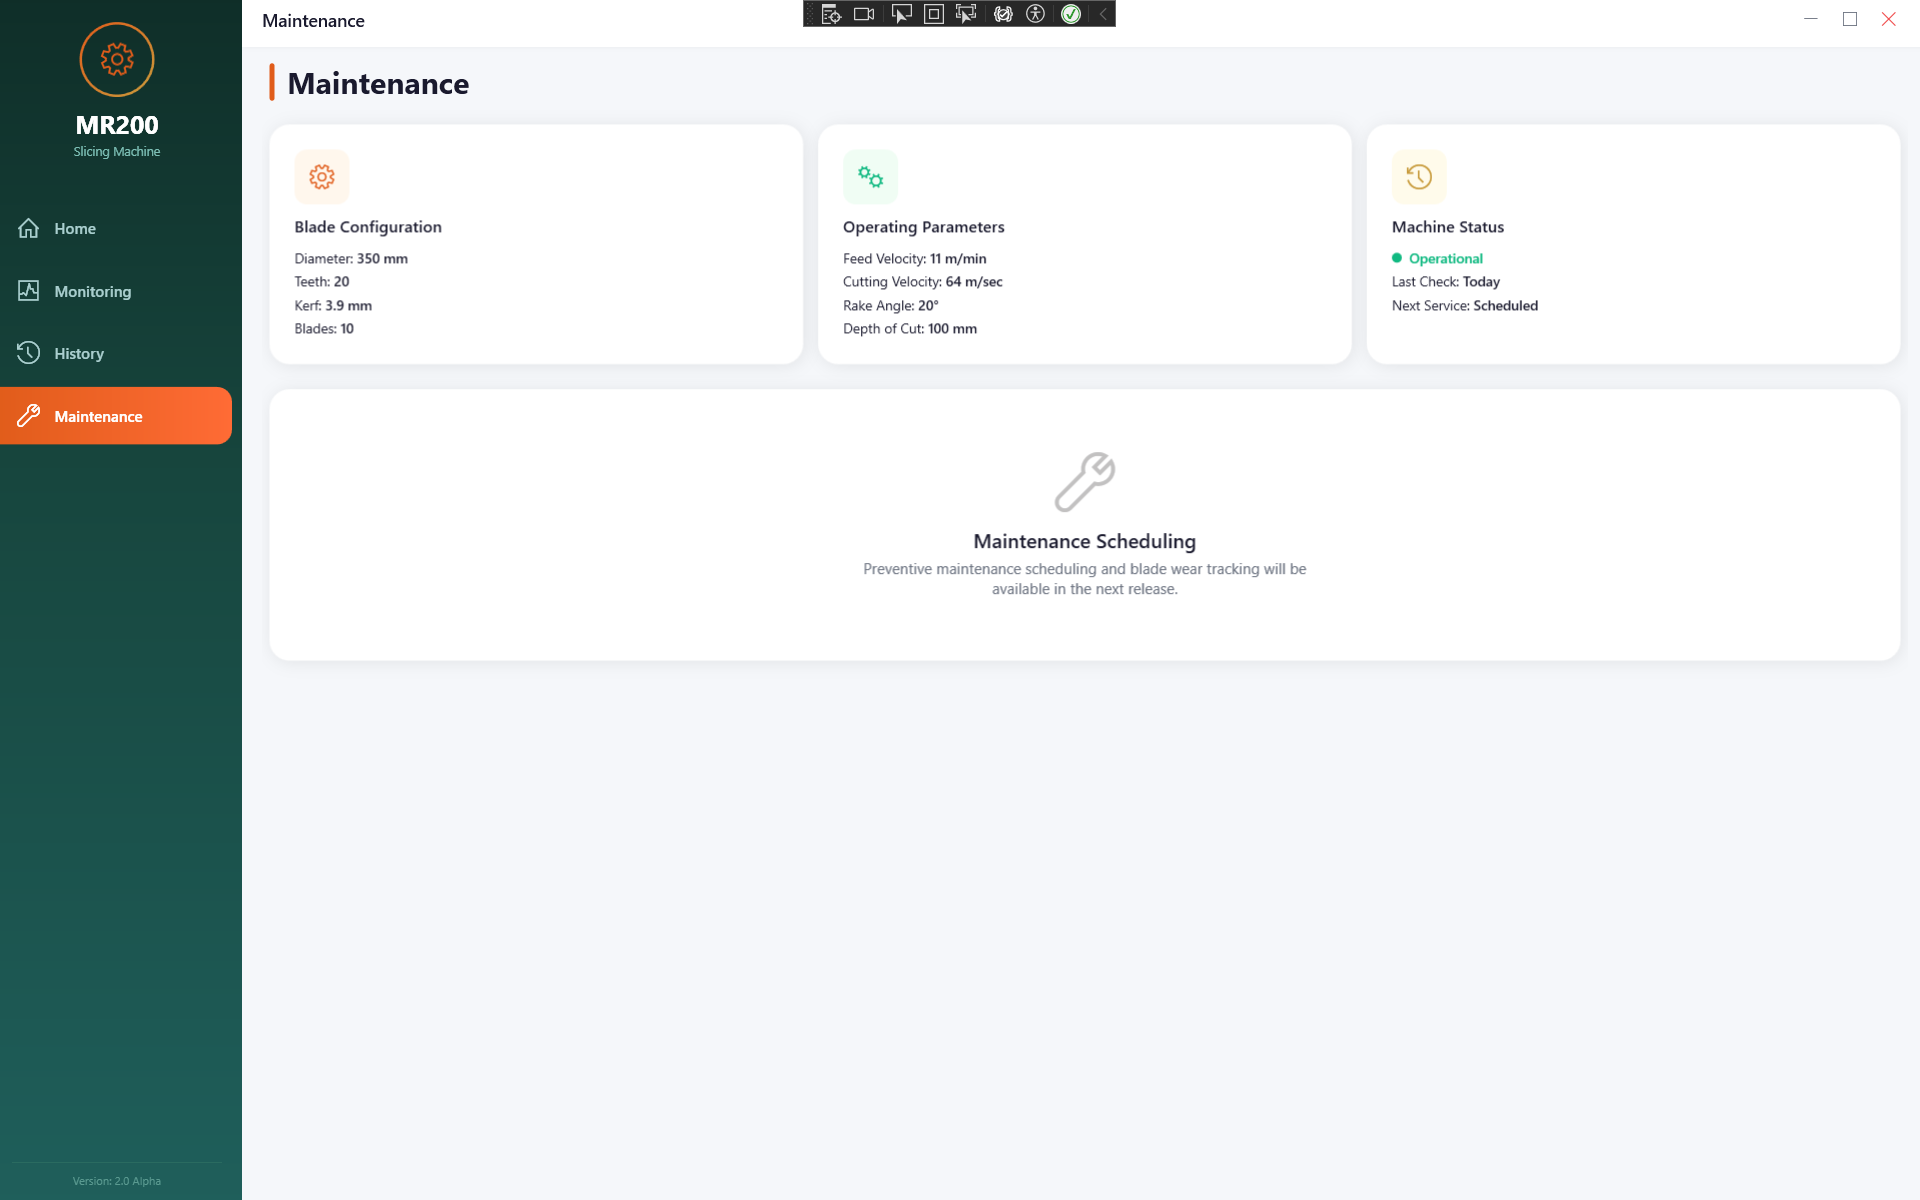
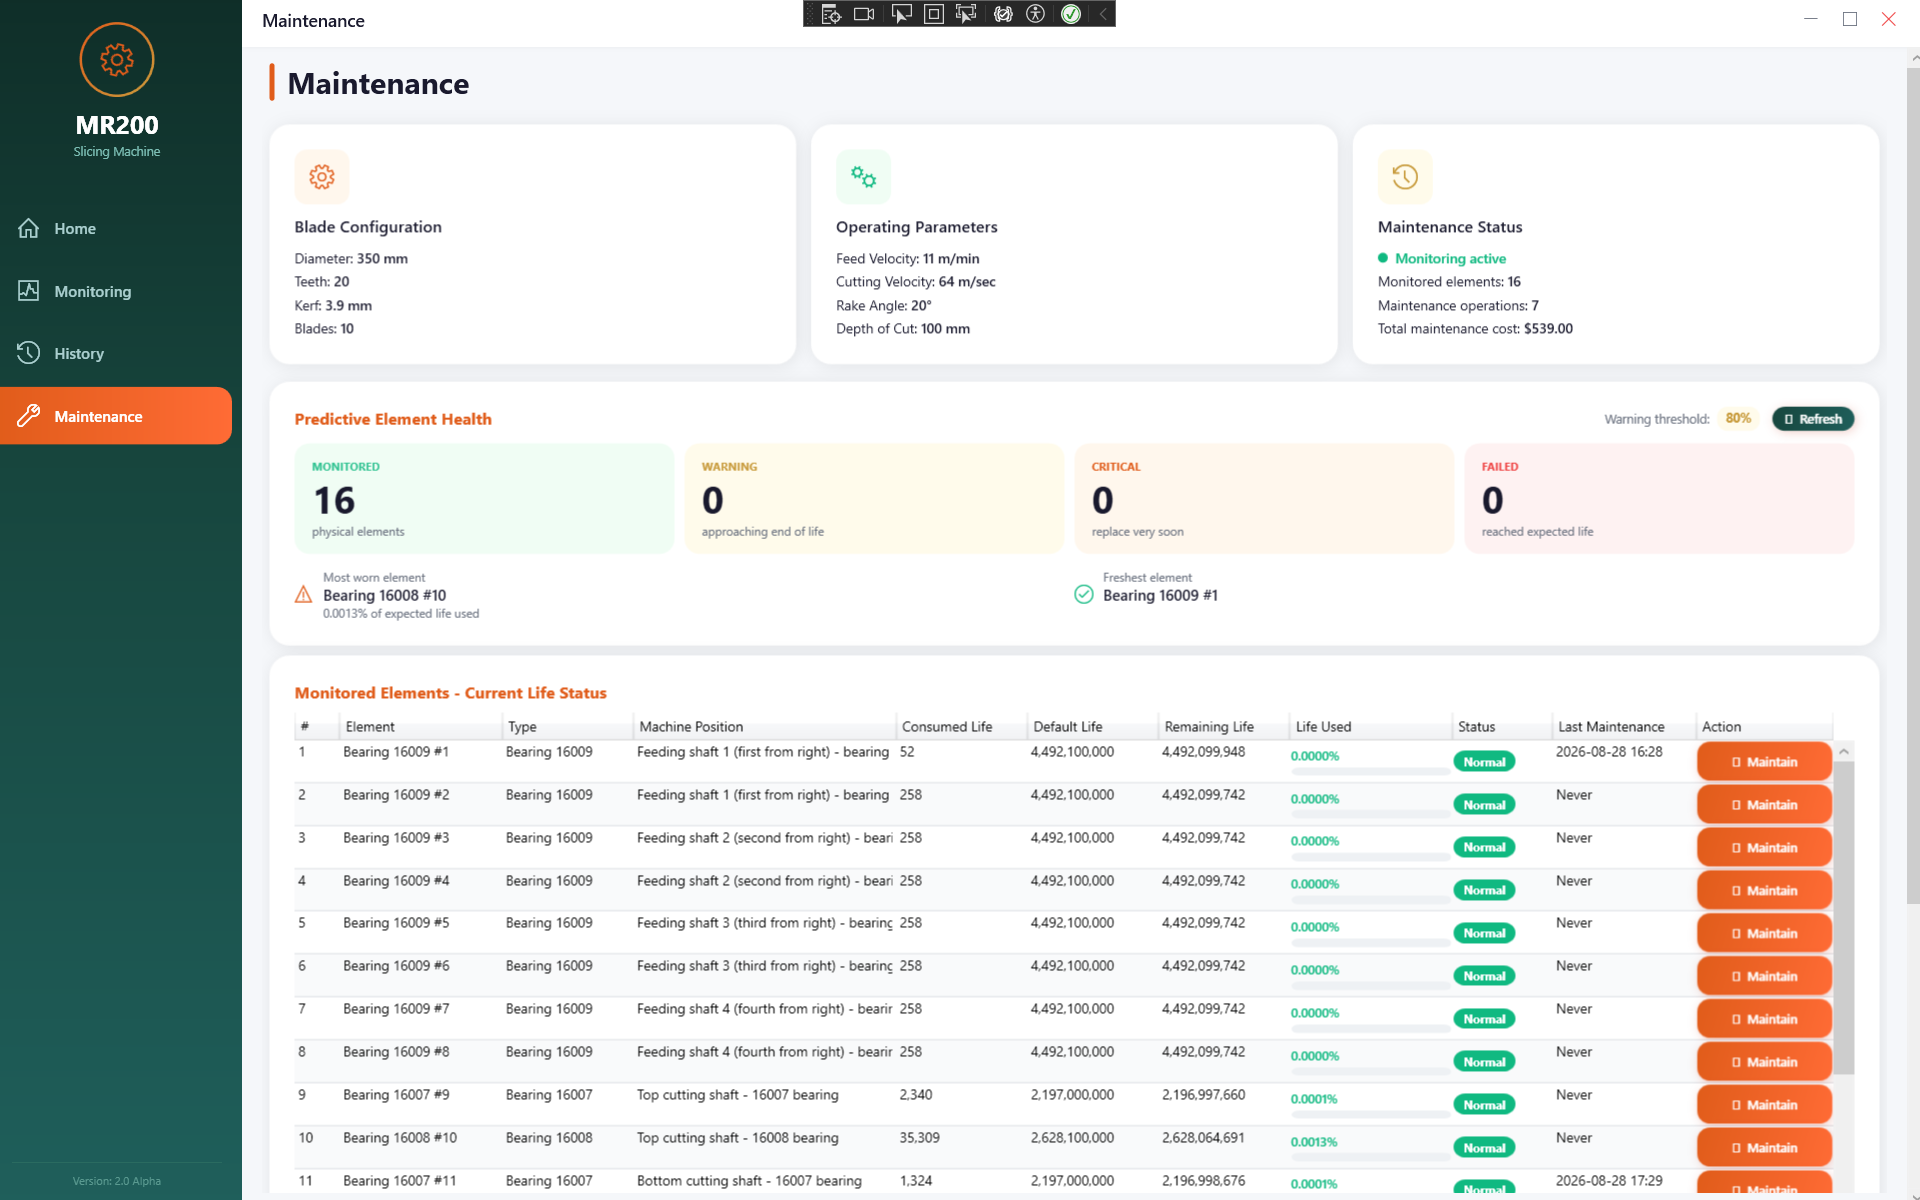
Software: update screen 05 to the rebuilt Maintenance screen
The Maintenance screen no longer shows "preventive maintenance and blade
wear tracking will be available in the next release" — the predictive
maintenance system is built. Rewrite the fifth screen's description and
bullet points from the current UI, in both language trees, and replace the
screenshot with the matching capture so the card and its image agree.

The description now covers the three status cards, the Predictive Element
Health counters with their warning threshold and most-worn / freshest
element, and the per-element life table with its Maintain action. The
bullet list goes from three to four points, matching the other four
screens.

Title, numbering, layout, card structure, animations, the demo video and
screens 01-04 are untouched.

diff --git a/src/i18n/translations.js b/src/i18n/translations.js
@@ -222,11 +222,12 @@ export const translations = {
         {
           title: 'Maintenance — configuration & status',
           desc:
-            'The Maintenance screen keeps the machine configuration in view: the blade set (350 mm diameter, 20 teeth, 3.9 mm kerf, 10 blades per arbor), the operating parameters (11 m/min feed, 64 m/s cutting velocity, 20° rake angle, 100 mm depth of cut) and the live machine status with the last check and next scheduled service. Preventive-maintenance scheduling and blade-wear tracking dock into this screen.',
+            'The Maintenance screen keeps the machine configuration in view — the blade set (350 mm diameter, 20 teeth, 3.9 mm kerf, 10 blades per arbor) and the operating parameters (11 m/min feed, 64 m/s cutting velocity, 20° rake angle, 100 mm depth of cut) — beside a live maintenance status carrying the number of monitored elements, the maintenance operations already carried out and their total cost. Predictive Element Health then counts how many of the physical elements are healthy, approaching end of life, critical or already past their expected life, measured against an adjustable warning threshold, and names the most worn element with the share of its life consumed alongside the freshest one. The table below lists every monitored element with its type and exact position on the machine, its consumed, default and remaining life, the percentage used, its status, the date of its last maintenance, and a Maintain action that logs a replacement.',
           points: [
-            'Blade configuration at a glance',
-            'Operating parameter snapshot',
-            'Machine status and service schedule',
+            'Blade and operating parameter snapshot',
+            'Predictive health across 16 monitored elements',
+            'Per-element life, position and status table',
+            'Maintain action logging every replacement',
           ],
         },
       ],
@@ -748,11 +749,12 @@ export const translations = {
         {
           title: 'الصيانة — الإعدادات والحالة',
           desc:
-            'تُبقي شاشة الصيانة إعدادات الآلة في المتناول: طقم الشفرات (قطر ٣٥٠ مم، ٢٠ سنّاً، شقّ ٣٫٩ مم، ١٠ شفرات لكل محور)، ومعاملات التشغيل (تغذية ١١ م/د، سرعة قطع ٦٤ م/ثا، زاوية ميل ٢٠°، عمق قطع ١٠٠ مم)، وحالة الآلة الحيّة مع آخر فحص وموعد الخدمة القادم. وفي هذه الشاشة ترسو جدولة الصيانة الوقائية وتتبّع اهتراء الشفرات.',
+            'تُبقي شاشة الصيانة إعدادات الآلة في المتناول — طقم الشفرات (قطر ٣٥٠ مم، ٢٠ سنّاً، شقّ ٣٫٩ مم، ١٠ شفرات لكل محور) ومعاملات التشغيل (تغذية ١١ م/د، سرعة قطع ٦٤ م/ثا، زاوية ميل ٢٠°، عمق قطع ١٠٠ مم) — إلى جانب حالة صيانة حيّة تحمل عدد العناصر المراقَبة وعمليات الصيانة المنفَّذة وكلفتها الإجمالية. ثمّ تُحصي لوحة الصحّة التنبّؤية للعناصر كم عنصراً ما يزال سليماً، وكم اقترب من نهاية عمره، وكم بلغ الحالة الحرجة أو تجاوز عمره المتوقَّع، قياساً على عتبة تحذير قابلة للضبط، وتُسمّي العنصر الأكثر اهتراءً مع نسبة ما استُهلك من عمره إلى جانب العنصر الأحدث. ويَسرُد الجدول أسفلها كل عنصر مراقَب مع نوعه وموضعه الدقيق في الآلة، وعمره المستهلَك والافتراضي والمتبقّي، والنسبة المئوية المستهلَكة، وحالته، وتاريخ آخر صيانة له، وزرّ صيانة يسجّل عملية الاستبدال.',
           points: [
-            'إعداد الشفرات بلمحة',
-            'لقطة لمعاملات التشغيل',
-            'حالة الآلة وجدول الخدمة',
+            'لمحة عن الشفرات ومعاملات التشغيل',
+            'صحّة تنبّؤية لـ١٦ عنصراً مراقَباً',
+            'جدول العمر والموضع والحالة لكل عنصر',
+            'زرّ صيانة يسجّل كل استبدال',
           ],
         },
       ],
